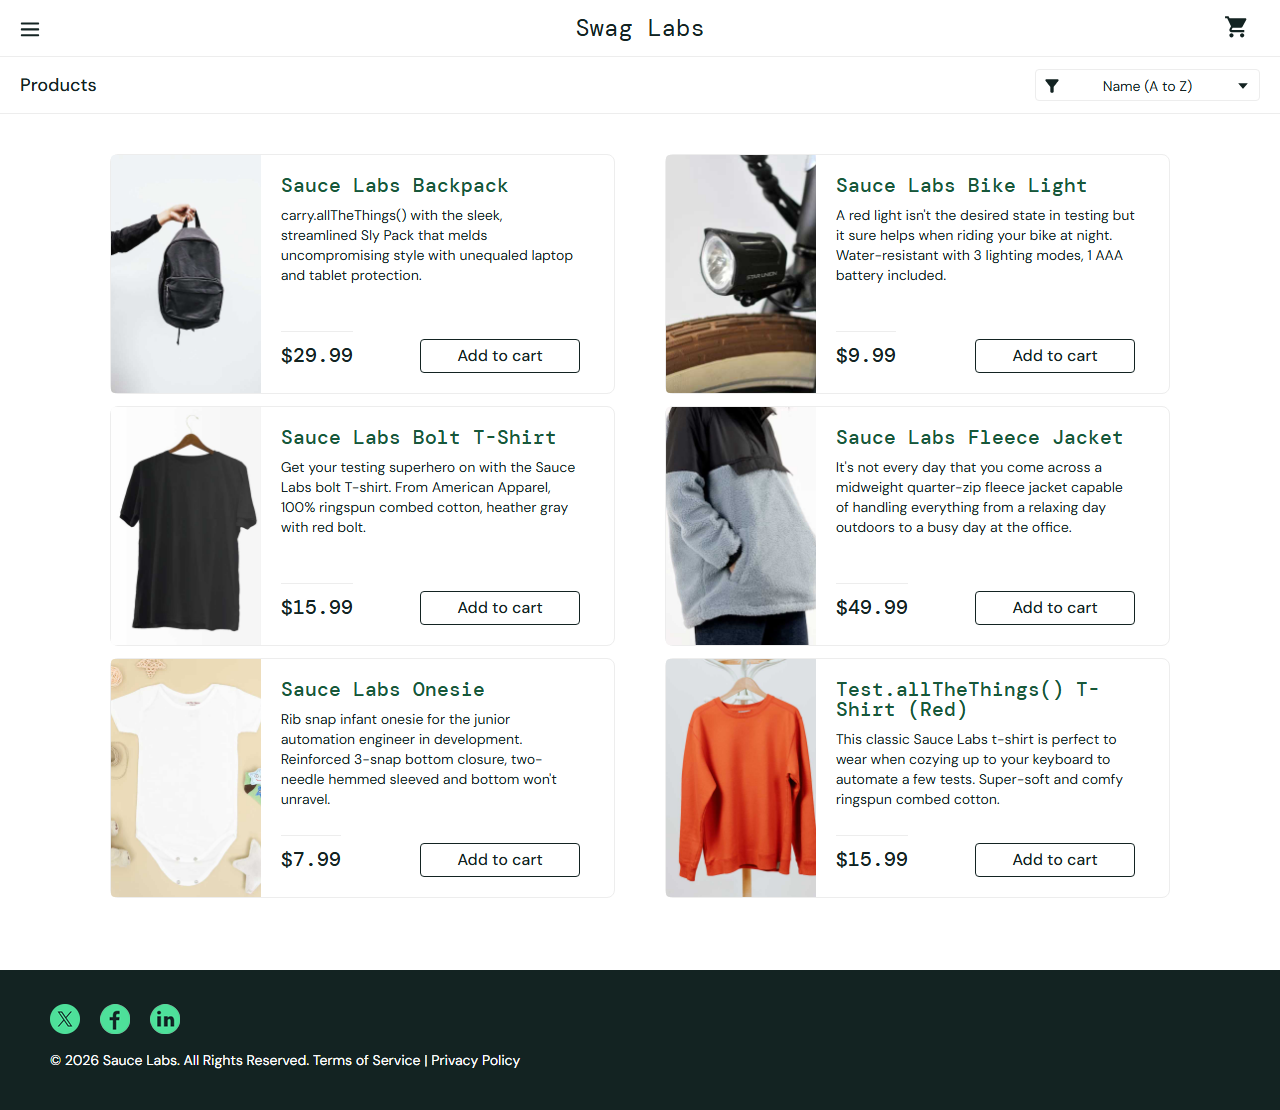
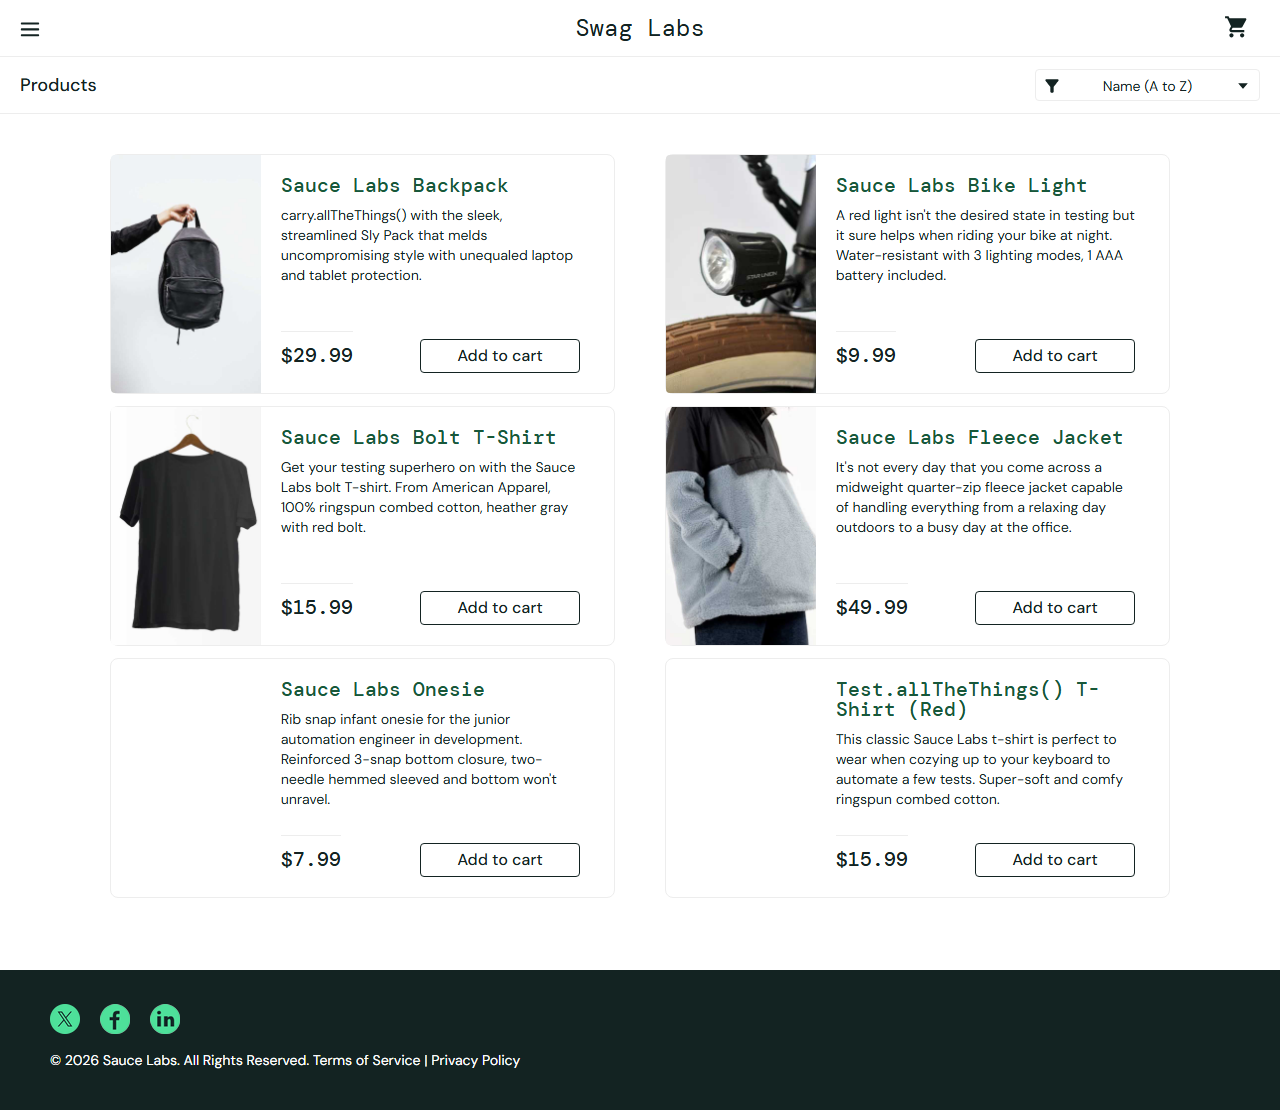
test(checkout): add negative checkout validation tests (TC-UI-08, TC-UI-09) and update README & reports

Changed region(s): [[0.5, 0.582, 0.6562, 0.827], [0.0625, 0.582, 0.2188, 0.827]]

diff --git a/reports/html-report/index.html b/reports/html-report/index.html
@@ -46,4 +46,4 @@ Error generating stack: `+e.message+`
     <div id='root'></div>
   </body>
 </html>
[2 lines of base64/hex data omitted]

diff --git a/tests/checkout.spec.js b/tests/checkout.spec.js
@@ -42,17 +42,63 @@ test.describe('Task 3 - SauceDemo E2E Checkout Flow', () => {
     });
   });
 
-  test('TC-UI-07: Should show validation error when submitting empty checkout information', async ({
+  test('TC-UI-07: Should show validation error when First Name is empty during checkout', async ({
     authenticatedPage,
     homePage,
     checkoutPage,
   }) => {
+    const customer = users.checkoutCustomer;
     await homePage.addProductToCart(CONSTANTS.PRODUCTS.SAUCE_LABS_ONESIE);
     await homePage.goToCart();
     await checkoutPage.proceedToCheckout();
-    await checkoutPage.fillCustomerInformation('', '', '');
+    await checkoutPage.fillCustomerInformation(
+      '',
+      customer.lastName,
+      customer.postalCode
+    );
+    await expect(checkoutPage.errorMessage).toBeVisible();
     await expect(checkoutPage.errorMessage).toContainText(
-      'Error: First Name is required'
+      CONSTANTS.MESSAGES.CHECKOUT_FIRST_NAME_REQUIRED
+    );
+  });
+
+  test('TC-UI-08: Should show validation error when Last Name is empty during checkout', async ({
+    authenticatedPage,
+    homePage,
+    checkoutPage,
+  }) => {
+    const customer = users.checkoutCustomer;
+    await homePage.addProductToCart(CONSTANTS.PRODUCTS.SAUCE_LABS_ONESIE);
+    await homePage.goToCart();
+    await checkoutPage.proceedToCheckout();
+    await checkoutPage.fillCustomerInformation(
+      customer.firstName,
+      '',
+      customer.postalCode
+    );
+    await expect(checkoutPage.errorMessage).toBeVisible();
+    await expect(checkoutPage.errorMessage).toContainText(
+      CONSTANTS.MESSAGES.CHECKOUT_LAST_NAME_REQUIRED
+    );
+  });
+
+  test('TC-UI-09: Should show validation error when Postal Code is empty during checkout', async ({
+    authenticatedPage,
+    homePage,
+    checkoutPage,
+  }) => {
+    const customer = users.checkoutCustomer;
+    await homePage.addProductToCart(CONSTANTS.PRODUCTS.SAUCE_LABS_ONESIE);
+    await homePage.goToCart();
+    await checkoutPage.proceedToCheckout();
+    await checkoutPage.fillCustomerInformation(
+      customer.firstName,
+      customer.lastName,
+      ''
+    );
+    await expect(checkoutPage.errorMessage).toBeVisible();
+    await expect(checkoutPage.errorMessage).toContainText(
+      CONSTANTS.MESSAGES.CHECKOUT_POSTAL_CODE_REQUIRED
     );
   });
 });

diff --git a/utils/constants.js b/utils/constants.js
@@ -21,6 +21,9 @@ const CONSTANTS = {
       'Epic sadface: Username and password do not match any user in this service',
     LOGIN_USERNAME_REQUIRED: 'Epic sadface: Username is required',
     LOGIN_PASSWORD_REQUIRED: 'Epic sadface: Password is required',
+    CHECKOUT_FIRST_NAME_REQUIRED: 'Error: First Name is required',
+    CHECKOUT_LAST_NAME_REQUIRED: 'Error: Last Name is required',
+    CHECKOUT_POSTAL_CODE_REQUIRED: 'Error: Postal Code is required',
   },
   PET_STATUS: {
     AVAILABLE: 'available',

diff --git a/tests/search.spec.js b/tests/search.spec.js
@@ -2,7 +2,7 @@ const { test, expect } = require('../fixtures/baseTest');
 const CONSTANTS = require('../utils/constants');
 
 test.describe('SauceDemo Product Catalog & Sort Verification', () => {
-  test('TC-UI-08: Should find Sauce Labs Onesie in product catalog and sort by Price (low to high)', async ({
+  test('TC-UI-10: Should find Sauce Labs Onesie in product catalog and sort by Price (low to high)', async ({
     authenticatedPage,
     homePage,
   }) => {

diff --git a/reports/Automation_Test_Report.md b/reports/Automation_Test_Report.md
@@ -3,9 +3,9 @@
 > **Auto-Generated Report:** File ini di-generate secara otomatis setiap kali `npm test` / `npx playwright test` dijalankan.
 
 **Framework:** Playwright (`@playwright/test`)  
-**Execution Timestamp:** 2026-10-29 03:07:41 UTC  
+**Execution Timestamp:** 2026-10-29 03:33:42 UTC  
 **Overall Status:** PASSED  
-**Total Duration:** 23.4s  
+**Total Duration:** 28.7s  
 
 ---
 
@@ -14,8 +14,8 @@
 | Suite Category | Total Executed | Passed | Failed | Skipped | Pass Rate |
 | :--- | :---: | :---: | :---: | :---: | :---: |
 | **Task 2 – Petstore API Automation** | 10 | 10 | 0 | 0 | **100%** |
-| **Task 3 – SauceDemo UI Automation** | 8 | 8 | 0 | 0 | **100%** |
-| **TOTAL** | **18** | **18** | **0** | **0** | **100.00%** |
+| **Task 3 – SauceDemo UI Automation** | 10 | 10 | 0 | 0 | **100%** |
+| **TOTAL** | **20** | **20** | **0** | **0** | **100.00%** |
 
 ---
 
@@ -23,11 +23,11 @@
 
 | Spec File | Test Case | Duration | Status | Error (If Any) |
 | :--- | :--- | :---: | :---: | :--- |
-| `petstore.api.spec.js` | TC-API-01: POST /pet - Should successfully add a new pet with valid payload (available) | 1.1s | **PASS** | - |
+| `petstore.api.spec.js` | TC-API-01: POST /pet - Should successfully add a new pet with valid payload (available) | 1.2s | **PASS** | - |
 | `petstore.api.spec.js` | TC-API-02: POST /pet - Should successfully add a new pet with status "pending" | 1.3s | **PASS** | - |
-| `petstore.api.spec.js` | TC-API-03: GET /pet/findByStatus - Should return pets with status "available" | 1.8s | **PASS** | - |
-| `petstore.api.spec.js` | TC-API-04: GET /pet/findByStatus - Should return pets with status "pending" | 3.7s | **PASS** | - |
-| `petstore.api.spec.js` | TC-API-05: GET /pet/findByStatus - Should return pets with status "sold" | 3.0s | **PASS** | - |
+| `petstore.api.spec.js` | TC-API-03: GET /pet/findByStatus - Should return pets with status "available" | 5.8s | **PASS** | - |
+| `petstore.api.spec.js` | TC-API-04: GET /pet/findByStatus - Should return pets with status "pending" | 2.3s | **PASS** | - |
+| `petstore.api.spec.js` | TC-API-05: GET /pet/findByStatus - Should return pets with status "sold" | 3.7s | **PASS** | - |
 | `petstore.api.spec.js` | TC-API-06: DELETE /pet/{petId} - Should delete the created pet by ID and confirm deletion | 1.3s | **PASS** | - |
 | `petstore.api.spec.js` | TC-API-07: DELETE /pet/{petId} - Should return 404 Not Found when deleting a non-existent petId | 1.0s | **PASS** | - |
 | `petstore.api.spec.js` | TC-API-08 [BUG-01 Verification]: GET /pet/findByStatus with invalid status returns 200 [] instead of documented 400 | 1.0s | **PASS** | - |
@@ -40,14 +40,16 @@
 
 | Spec File | Test Case | Duration | Status | Error (If Any) |
 | :--- | :--- | :---: | :---: | :--- |
-| `checkout.spec.js` | TC-UI-06: Should complete E2E Checkout Flow for Sauce Labs Onesie | 1.4s | **PASS** | - |
-| `checkout.spec.js` | TC-UI-07: Should show validation error when submitting empty checkout information | 0.9s | **PASS** | - |
-| `login.spec.js` | TC-UI-01: Should login successfully with valid standard_user credentials | 0.8s | **PASS** | - |
+| `checkout.spec.js` | TC-UI-06: Should complete E2E Checkout Flow for Sauce Labs Onesie | 1.5s | **PASS** | - |
+| `checkout.spec.js` | TC-UI-07: Should show validation error when First Name is empty during checkout | 0.8s | **PASS** | - |
+| `checkout.spec.js` | TC-UI-08: Should show validation error when Last Name is empty during checkout | 0.9s | **PASS** | - |
+| `checkout.spec.js` | TC-UI-09: Should show validation error when Postal Code is empty during checkout | 0.9s | **PASS** | - |
+| `login.spec.js` | TC-UI-01: Should login successfully with valid standard_user credentials | 0.7s | **PASS** | - |
 | `login.spec.js` | TC-UI-02: Should display error message when logging in with locked_out_user | 0.5s | **PASS** | - |
 | `login.spec.js` | TC-UI-03: Should display error message with invalid username and password | 0.6s | **PASS** | - |
 | `login.spec.js` | TC-UI-04: Should display validation error when username is empty | 0.5s | **PASS** | - |
-| `login.spec.js` | TC-UI-05: Should display validation error when password is empty | 0.5s | **PASS** | - |
-| `search.spec.js` | TC-UI-08: Should find Sauce Labs Onesie in product catalog and sort by Price (low to high) | 0.7s | **PASS** | - |
+| `login.spec.js` | TC-UI-05: Should display validation error when password is empty | 0.6s | **PASS** | - |
+| `search.spec.js` | TC-UI-10: Should find Sauce Labs Onesie in product catalog and sort by Price (low to high) | 0.7s | **PASS** | - |
 
 ---
 

diff --git a/README.md b/README.md
@@ -23,10 +23,10 @@ Struktur project ini dirancang menggunakan pendekatan **Page Object Model (POM)*
 ```text
 playwright-framework/
 ├── tests/
-│   ├── login.spec.js             # Task 3: UI Automation - Login scenarios
-│   ├── checkout.spec.js          # Task 3: UI Automation - E2E Checkout Flow ('Sauce Labs Onesie')
-│   ├── search.spec.js            # Task 3: UI Automation - Product catalog & sorting verification
-│   └── petstore.api.spec.js      # Task 2: API Automation - POST /pet, GET /pet/findByStatus, DELETE /pet/{petId}
+│   ├── login.spec.js             # Task 3: UI Automation - Login scenarios (TC-UI-01 s/d TC-UI-05)
+│   ├── checkout.spec.js          # Task 3: UI Automation - E2E Checkout 'Sauce Labs Onesie' & Negative tests (TC-UI-06 s/d TC-UI-09)
+│   ├── search.spec.js            # Task 3: UI Automation - Product catalog & sorting verification (TC-UI-10)
+│   └── petstore.api.spec.js      # Task 2: API Automation - POST /pet, GET /pet/findByStatus, DELETE /pet/{petId} (TC-API-01 s/d TC-API-10)
 ├── pages/
 │   ├── LoginPage.js              # Page Object Model untuk halaman Login
 │   ├── HomePage.js               # Page Object Model untuk halaman Inventory/Home
@@ -36,7 +36,8 @@ playwright-framework/
 ├── utils/
 │   ├── constants.js              # Konstanta aplikasi (URL regex, pesan error/sukses, status enum)
 │   ├── testData.js               # Helper & generator payload data uji
-│   └── helpers.js                # Fungsi utilitas (screenshot helper & PetstoreApiHelper)
+│   ├── helpers.js                # Fungsi utilitas (screenshot helper & PetstoreApiHelper)
+│   └── markdownReporter.js       # Custom Playwright reporter untuk auto-generate Automation_Test_Report.md
 ├── locators/
 │   ├── loginLocators.js          # Centralized locators untuk halaman Login
 │   ├── homeLocators.js           # Centralized locators untuk halaman Home/Inventory
@@ -48,7 +49,7 @@ playwright-framework/
 ├── reports/
 │   ├── html-report/              # Playwright interactive HTML report
 │   ├── test-results.json         # Hasil eksekusi test dalam format JSON
-│   └── Automation_Test_Report.md # Ringkasan laporan hasil eksekusi automasi
+│   └── Automation_Test_Report.md # Ringkasan laporan hasil eksekusi automasi (Auto-generated)
 ├── screenshots/                  # Bukti tangkapan layar (screenshots) eksekusi UI & ketika terjadi kegagalan
 ├── Task_1_docs/
 │   └── Task1_Manual_API_Test_and_Bug_Report.xlsx # Task 1 Manual API Test & Bug Report (3 Sheets)
@@ -56,6 +57,22 @@ playwright-framework/
 ├── package.json                  # Dependencies dan npm scripts
 └── README.md                     # Dokumentasi panduan penggunaan project
 ```
+
+---
+
+## Cakupan Skenario Automasi (20 Test Cases)
+
+### Task 2 – API Automation (`tests/petstore.api.spec.js` – 10 Tests)
+- **`TC-API-01` & `TC-API-02` (`POST /pet`):** Menambahkan pet baru dengan payload valid (`available` & `pending`).
+- **`TC-API-03` s/d `TC-API-05` (`GET /pet/findByStatus`):** Mencari daftar pet berdasarkan status `available`, `pending`, dan `sold`.
+- **`TC-API-06` & `TC-API-07` (`DELETE /pet/{petId}`):** Menghapus pet berdasarkan ID & memverifikasi response `404` pada ID yang sudah terhapus / tidak ditemukan.
+- **`TC-API-08` s/d `TC-API-10` (Verifikasi Bug / Mismatch Dokumentasi Swagger):** Memverifikasi perilaku aktual server pada status invalid (`BUG-01`), payload kosong `{}` (`BUG-02`), dan `petId` non-numerik (`BUG-03`).
+
+### Task 3 – UI Automation (`tests/login.spec.js`, `tests/checkout.spec.js`, `tests/search.spec.js` – 10 Tests)
+- **`TC-UI-01` s/d `TC-UI-05` (Login):** Login positif (`standard_user`) serta skenario negatif (`locked_out_user`, kredensial salah, username kosong, password kosong).
+- **`TC-UI-06` (E2E Checkout Flow – Positif):** Login → Tambah item `'Sauce Labs Onesie'` ke Cart → Buka Cart → Isi informasi Checkout → Selesaikan pesanan & verifikasi pesan `Thank you for your order!`.
+- **`TC-UI-07` s/d `TC-UI-09` (Checkout – Negatif):** Validasi error saat mengosongkan *First Name* (`TC-UI-07`), *Last Name* (`TC-UI-08`), dan *Postal Code* (`TC-UI-09`).
+- **`TC-UI-10` (Product Catalog & Sort):** Memastikan item `'Sauce Labs Onesie'` tersedia di katalog dan terurut paling atas pada filter harga terendah (*Price low to high*).
 
 ---
 
